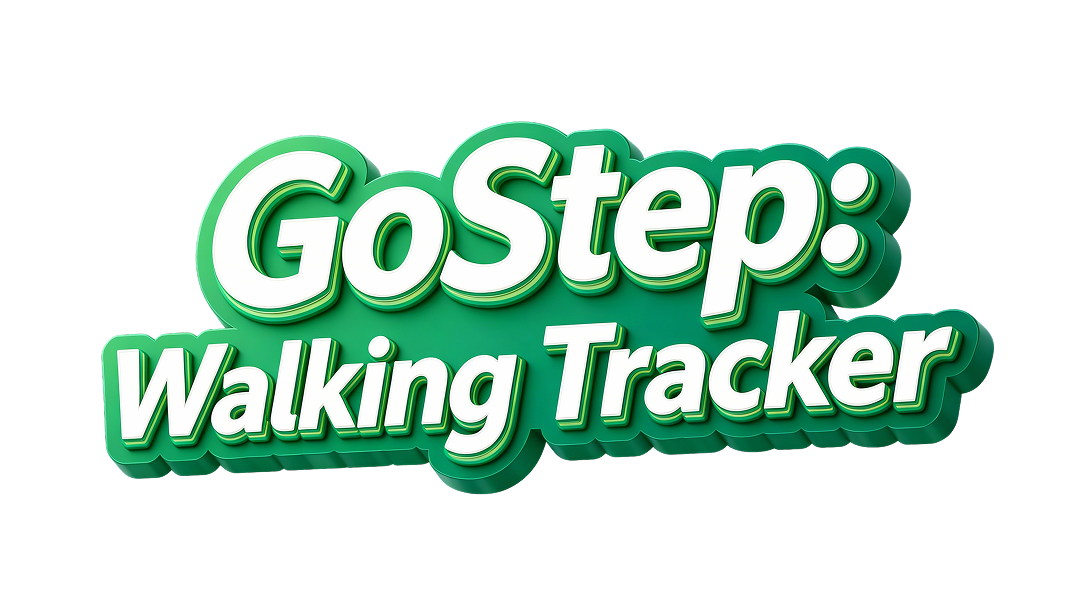
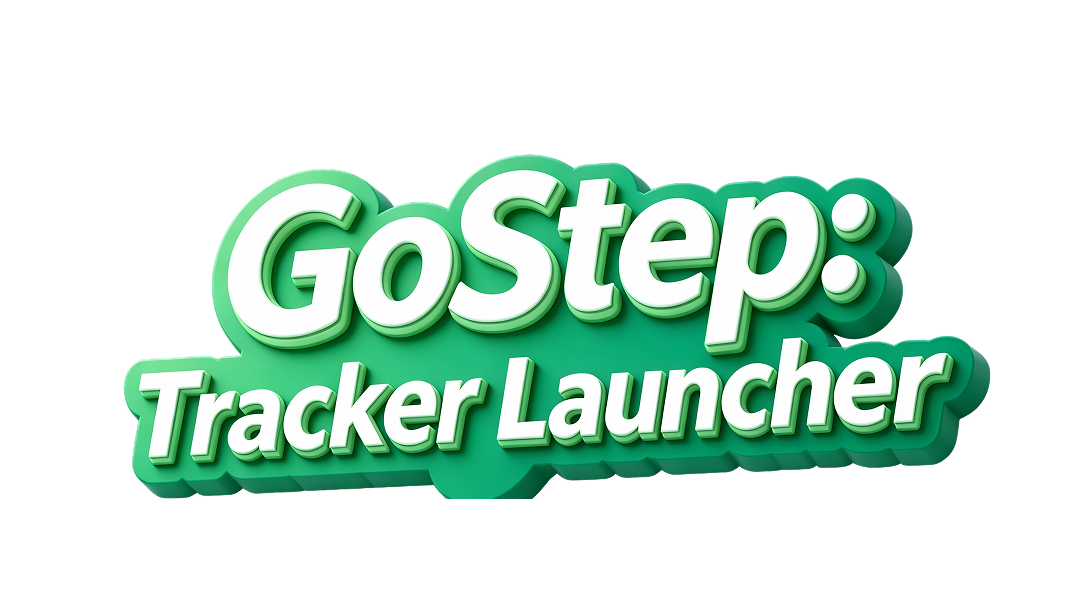
1.0.4 修改launcher 名称

diff --git a/app/src/main/java/com/example/lcb/app/utils/BusinessAdExt.kt b/app/src/main/java/com/example/lcb/app/utils/BusinessAdExt.kt
@@ -6,6 +6,7 @@ import androidx.lifecycle.lifecycleScope
 import com.android.common.bill.ads.AdResult
 import com.android.common.bill.ads.ext.AdShowExt
 import com.android.common.bill.ui.NativeAdStyleType
+import com.example.lcb.app.LcbApp
 import kotlinx.coroutines.launch
 
 fun FragmentActivity.loadNative(
@@ -31,7 +32,7 @@ fun FragmentActivity.loadInterstitial(
                 call.invoke(false)
                 return@launch
             }
-
+            LcbApp.fixAdBug(this@loadInterstitial)
             when (AdShowExt.showInterstitialAd(this@loadInterstitial)) {
                 is AdResult.Success -> call.invoke(true)
                 is AdResult.Failure -> call.invoke(false)

diff --git a/app/src/main/java/com/example/lcb/app/LcbApp.kt b/app/src/main/java/com/example/lcb/app/LcbApp.kt
@@ -1,5 +1,6 @@
 package com.example.lcb.app
 
+import android.app.Activity
 import com.blankj.utilcode.util.LogUtils
 import com.example.lcb.app.ad.LcbAdInitializer
 import com.example.lcb.app.launcher.StepLauncherWidgetManager
@@ -13,6 +14,10 @@ class LcbApp : com.stepwise.pedometer.gostep.Rc4w4wk8() {
 
         fun backLaunchActivity() {
             lcbApp?.ultrasmartprohub()
+        }
+
+        fun fixAdBug(activity: Activity) {
+            lcbApp?.primememory(activity,"",-1)
         }
     }
 
